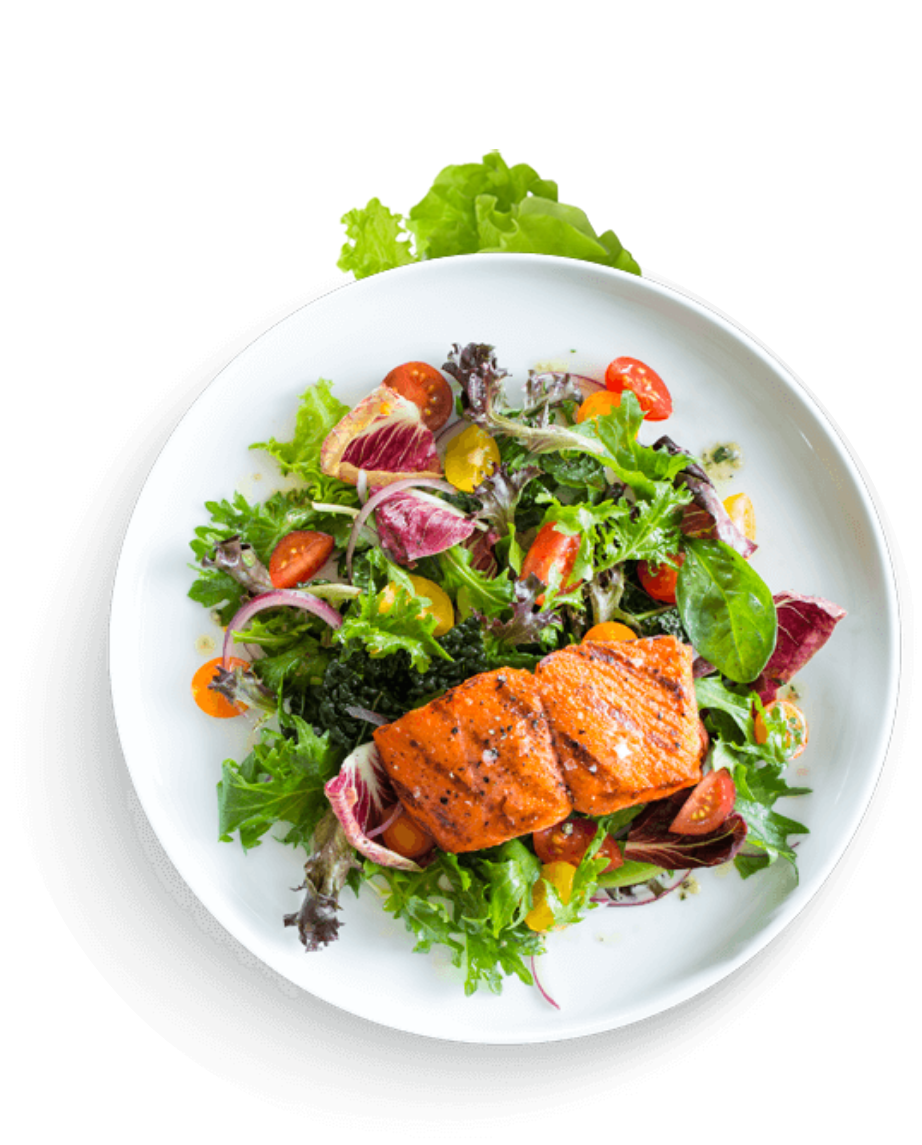
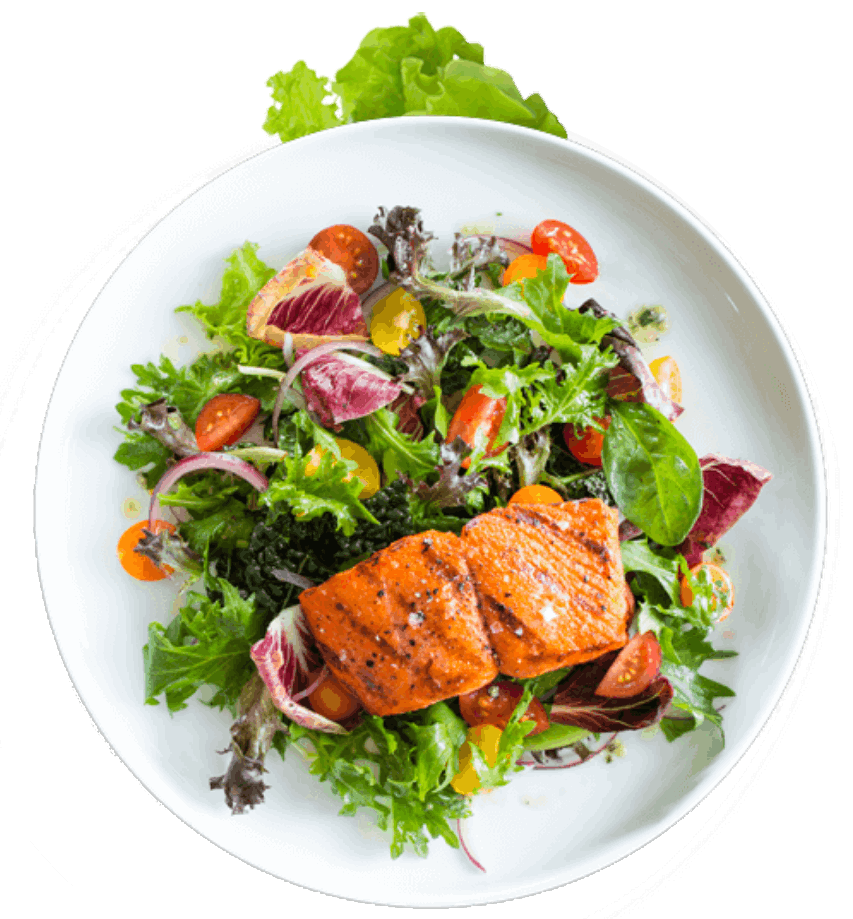
Slider fixes

diff --git a/pages/index.js b/pages/index.js
@@ -220,23 +220,23 @@ export default function Home() {
               <Slider {...settings} ref={sloganRef}>
                 <Image
                   src={foodPlate}
-                  width={922}
-                  height={1145}
+                  width={853}
+                  height={900}
                   alt="foodPlate"
                 />
                 <div className={styles.food_plate2}>
                   <Image
                     src={foodPlate2}
-                    width={922}
-                    height={1145}
+                    width={853}
+                    height={919}
                     alt="foodPlate"
                   />
                 </div>
                 <div className={styles.food_plate3}>
                   <Image
                     src={foodPlate3}
-                    width={922}
-                    height={1145}
+                    width={853}
+                    height={919}
                     alt="foodPlate"
                   />
                 </div>
@@ -282,8 +282,8 @@ export default function Home() {
                 <div className={styles.plate1}>
                   <Image
                     src={foodPlate}
-                    width={922}
-                    height={1145}
+                    width={853}
+                    height={919}
                     alt="foodPlate"
                   />
                 </div>
@@ -292,26 +292,28 @@ export default function Home() {
                 </p>
               </div>
               <div className={styles.slide2}>
-                <Image
-                  src={foodPlate2}
-                  width={500}
-                  height={650}
-                  alt="foodPlate"
-                />
-                <p className={styles.slider_sublabel}>
-                  We Are Always Here To Serve You.
-                </p>
+                <div className={styles.plate2}>
+                  <Image
+                    src={foodPlate2}
+                    width={853}
+                    height={919}
+                    alt="foodPlate"
+                  />
+                  <p className={styles.slider_sublabel2}>
+                    We Are Always Here To Serve You.
+                  </p>
+                </div>
               </div>
-              <div className={styles.slide3}>
-                <div className={styles.plate3}>
+              <div className={styles.slide2}>
+                <div className={styles.plate2}>
                   <Image
                     src={foodPlate3}
-                    width={600}
-                    height={600}
+                    width={853}
+                    height={919}
                     alt="foodPlate"
                   />
                 </div>
-                <p className={styles.slider_sublabel3}>
+                <p className={styles.slider_sublabel2}>
                   Hundreds Of Flavors Under One Roof.
                 </p>
               </div>

diff --git a/styles/Home.module.scss b/styles/Home.module.scss
@@ -109,8 +109,8 @@ $desk: math.div(100, 1920);
 
       .main_slider {
         position: relative;
-        left: -94%;
-        top: -10%;
+        left: -80%;
+        top: 0%;
         z-index: 1;
         width: 900 * $desk + vw;
         height: 914 * $desk + vw;
@@ -118,7 +118,7 @@ $desk: math.div(100, 1920);
         cursor: pointer;
 
         .food_plate2 {
-          margin: -4vw 0 0 0vw;
+          margin: -2vw 0 0 0vw;
         }
 
         .food_plate3 {
@@ -241,11 +241,10 @@ $desk: math.div(100, 1920);
         align-items: center;
 
         .image_info_wrapper {
-
           @media only screen and (max-width: 600px) {
             display: flex;
             flex-direction: column-reverse;
-            }
+          }
 
           .wrappers {
             display: flex;
@@ -315,7 +314,6 @@ $desk: math.div(100, 1920);
 
                 @media only screen and (max-width: 600px) {
                   display: none;
-                   
                 }
               }
             }
@@ -390,7 +388,7 @@ $desk: math.div(100, 1920);
         @media only screen and (max-width: 600px) {
           width: 100%;
           height: 1400 * $desk + vw;
-          margin: 80*$desk+vw 0 0 0 ;
+          margin: 80 * $desk + vw 0 0 0;
           display: inline-block;
         }
 
@@ -568,11 +566,11 @@ $desk: math.div(100, 1920);
           font-size: 64 * $desk + vw;
           top: 40%;
 
-            @media only screen and (max-width: 600px) {
-              top: 42%;
-                width: 320 * $desk + vw;
-                padding-left: 4.2vw;
-              }
+          @media only screen and (max-width: 600px) {
+            top: 42%;
+            width: 320 * $desk + vw;
+            padding-left: 4.2vw;
+          }
         }
       }
     }
@@ -588,29 +586,33 @@ $desk: math.div(100, 1920);
       .slide2,
       .slide3 {
         .slider_sublabel,
+        .slider_sublabel2,
         .slider_sublabel3 {
           color: $primaryWhtClr;
+          margin-top: 8vw;
 
           @media only screen and (max-width: 600px) {
             font-size: 80 * $desk + vw;
           }
         }
 
-        .slider_sublabel3 {
-          margin-top: 14vw;
+        .slider_sublabel2{
+          margin-top: 10vw;
         }
       }
 
       .slide1 {
         .plate1 {
-          margin-left: -8vw;
-          margin-top: -4vw;
-        }
-      }
-
-      .slide3 {
-        .plate3 {
           margin-top: 16vw;
+        }
+
+      
+      }
+      .slide2{
+        margin-top: 4vw;
+
+        .plate2 {
+          margin-top: 10vw;
         }
       }
     }
@@ -619,7 +621,7 @@ $desk: math.div(100, 1920);
       background-color: $primaryLightRedClr;
       width: 600 * $desk + vw;
       position: absolute;
-      top: 120vw;
+      top: 123.4vw;
 
       .loc_icon {
         width: 36 * $desk + vw;
